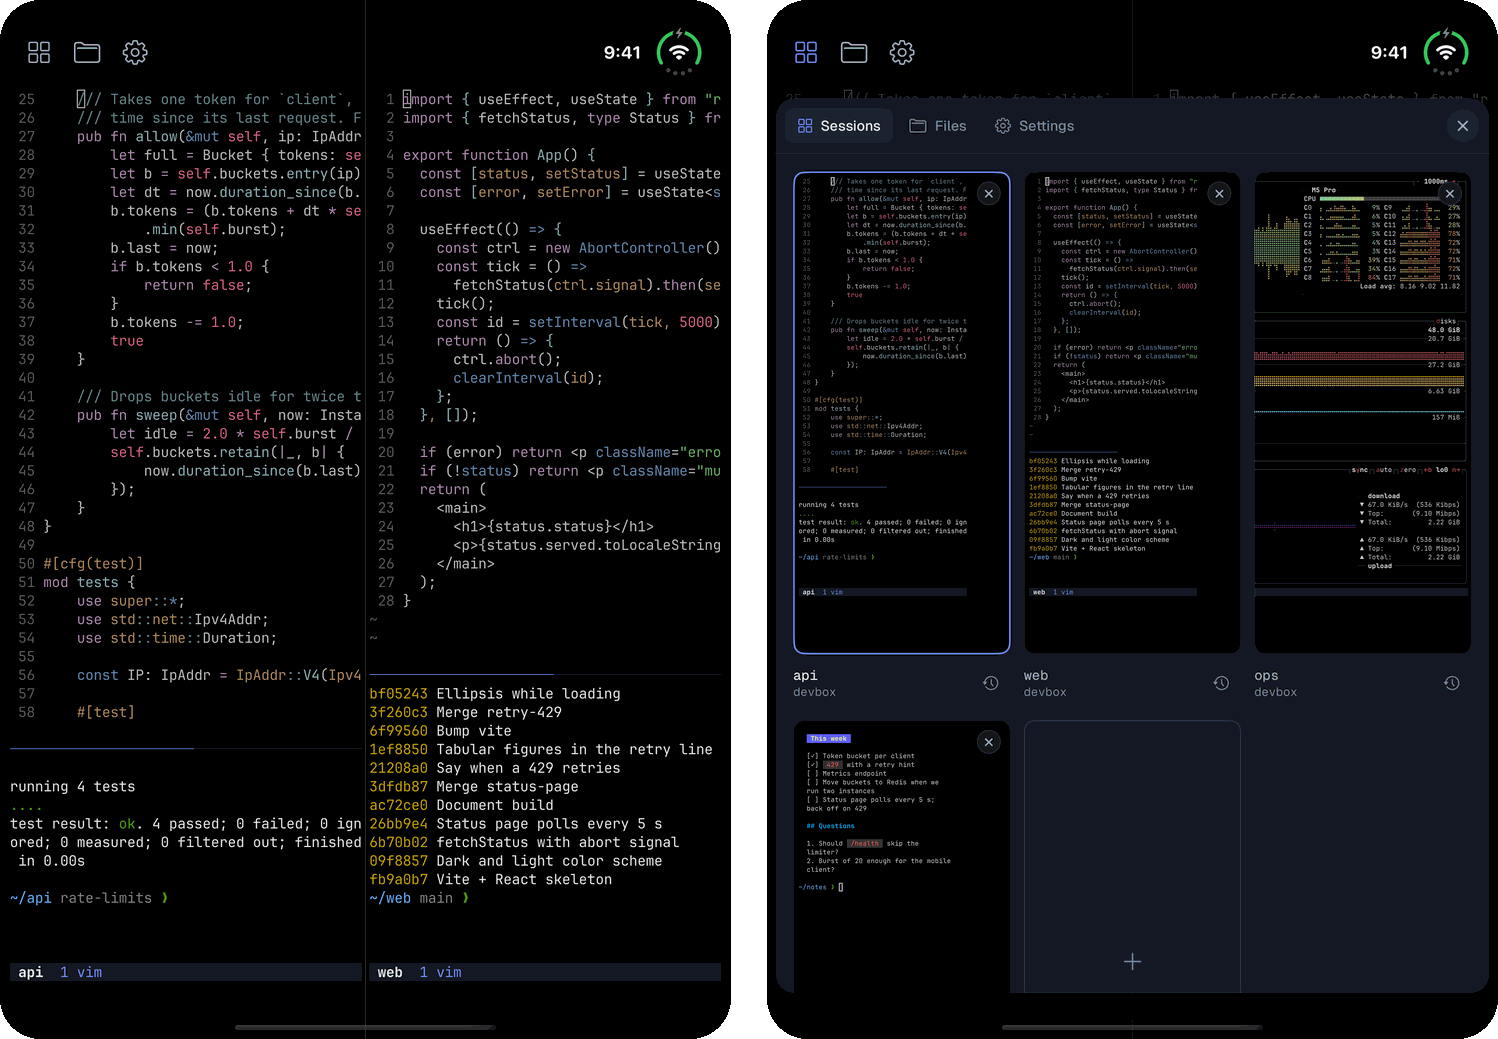
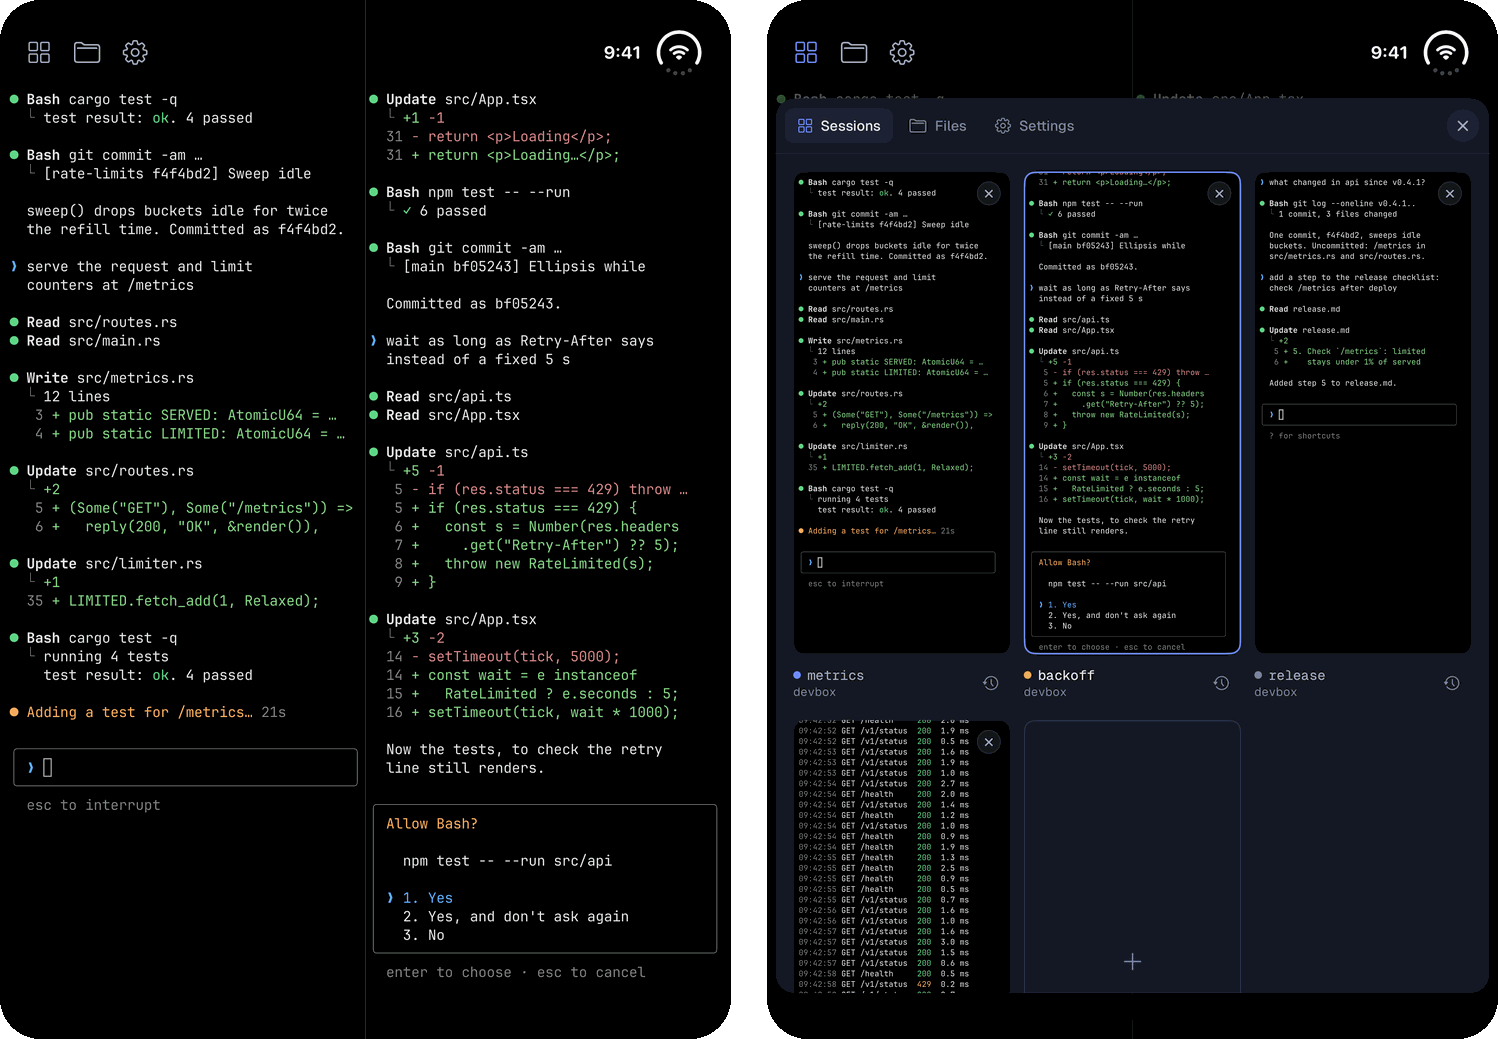
README screenshots on herdr
The three images showed tmux's status line. Re-shot on a private herdr with three demo agents (working, blocked, idle) and a request log, same compositions and sizes. Agent screens are a still script rather than a real agent so nothing personal can show.

diff --git a/README.md b/README.md
@@ -3,7 +3,7 @@
 Term is a terminal for iPhone. It speaks mosh and SSH, keeps your herdr sessions and the coding agents in them one swipe away, and lets you work on the remote machine's files without leaving the app.
 
 <p align="center">
-  <img src="docs/screens-terminal.png" alt="Term on iPhone: vim and cargo test in a tmux session, the Sessions overview, and the Files tab in a Rust project">
+  <img src="docs/screens-terminal.png" alt="Term on iPhone: a coding agent at work in a herdr pane, the Sessions overview with each agent's state, and the Files tab in a Rust project">
 </p>
 
 Term takes [Blink Shell](https://blink.sh) as its model and rebuilds it on [Ghostty](https://ghostty.org)'s terminal engine, with a mosh client written from scratch in Rust.
@@ -21,11 +21,11 @@ Term takes [Blink Shell](https://blink.sh) as its model and rebuilds it on [Ghos
 - **iPhone Duo layouts** for both displays, two windows side by side, and a menu dock in the inner display's status band.
 
 <p align="center">
-  <img src="docs/screens-files.png" alt="Swiping between tmux sessions, a Rust file in the code viewer, and a README rendered from the host">
+  <img src="docs/screens-files.png" alt="Swiping between two herdr agents, the HUD naming each with its state, a Rust file in the code viewer, and a README rendered from the host">
 </p>
 
 <p align="center">
-  <img src="docs/screens-duo.png" alt="Term on the iPhone Duo's inner display: two tmux sessions side by side under the menu dock in the status band, and the Sessions panel opened from the dock">
+  <img src="docs/screens-duo.png" alt="Term on the iPhone Duo's inner display: two agents side by side under the menu dock in the status band, one working and one waiting for approval, and the Sessions panel with a working, a blocked and an idle agent">
 </p>
 
 ## How it works
